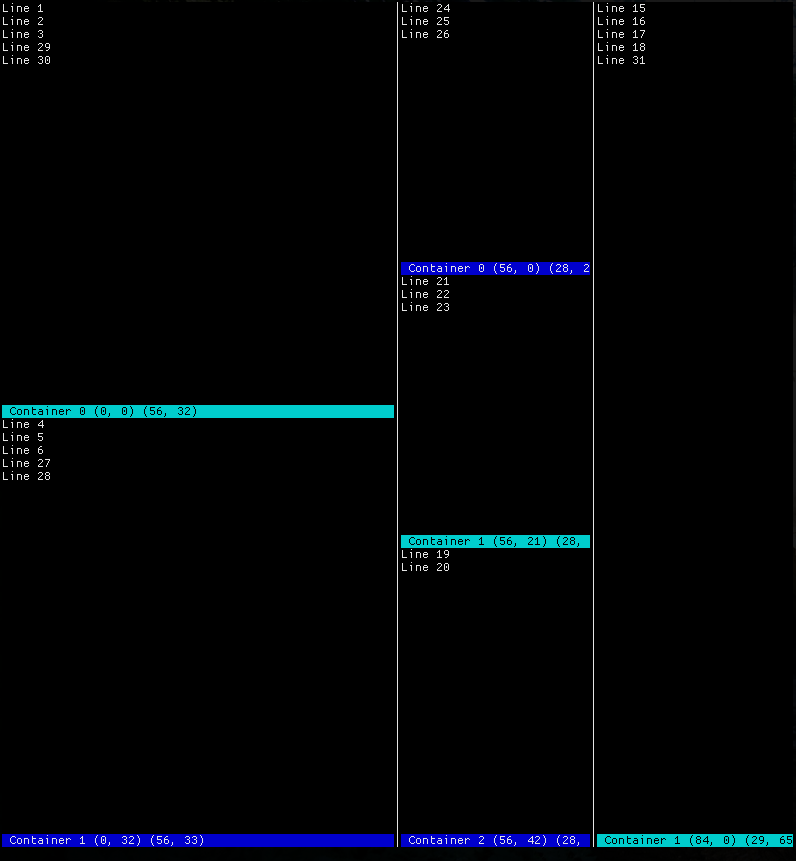
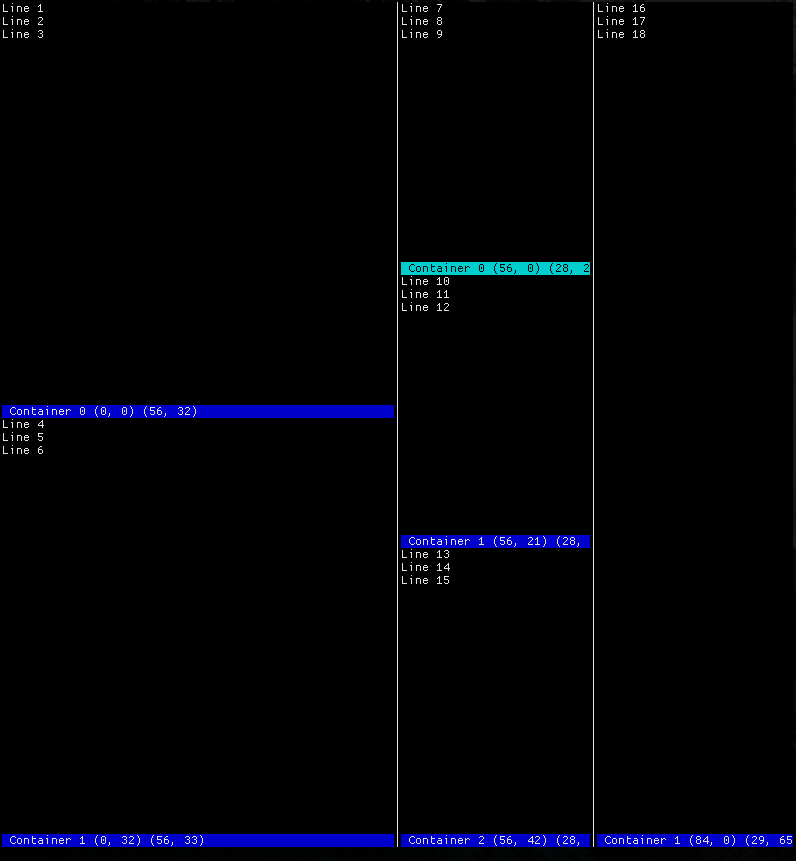
Fix drawing of focus indicator

diff --git a/src/lib.rs b/src/lib.rs
@@ -212,7 +212,6 @@ impl WindowContainer {
         for (i, window) in self.payload.iter_mut().enumerate() {
             match window {
                 &mut WindowPayload::Window(ref mut w) => {
-                    //let mut w = w.borrow_mut();
                     w.cursor.set((0, 0));
                     w.ymax = window_height;
                     w.y = self.container_y + (i as i32) * window_height;
@@ -242,11 +241,14 @@ impl WindowContainer {
         }
     }
     fn refresh_windows(&mut self, reprint: bool) {
+        self.refresh_windows_internal(reprint, true)
+    }
+    fn refresh_windows_internal(&mut self, reprint: bool, in_focus_chain: bool) {
         for (i, window) in self.payload.iter_mut().enumerate() {
             match window {
                 &mut WindowPayload::Window(ref mut w) => {
                     let header_color = {
-                        let focused = self.focus == i;
+                        let focused = in_focus_chain && self.focus == i;
                         let color = if focused { Color::StatusSelected } else { Color::Status.into() };
                         COLOR_PAIR(color.into())
                     };
@@ -269,7 +271,8 @@ impl WindowContainer {
                 }
                 &mut WindowPayload::Container(ref c) => {
                     let mut c = c.borrow_mut();
-                    c.refresh_windows(reprint);
+                    let in_focus_chain = in_focus_chain && self.focus == i;
+                    c.refresh_windows_internal(reprint, in_focus_chain);
                 }
             }
         }
